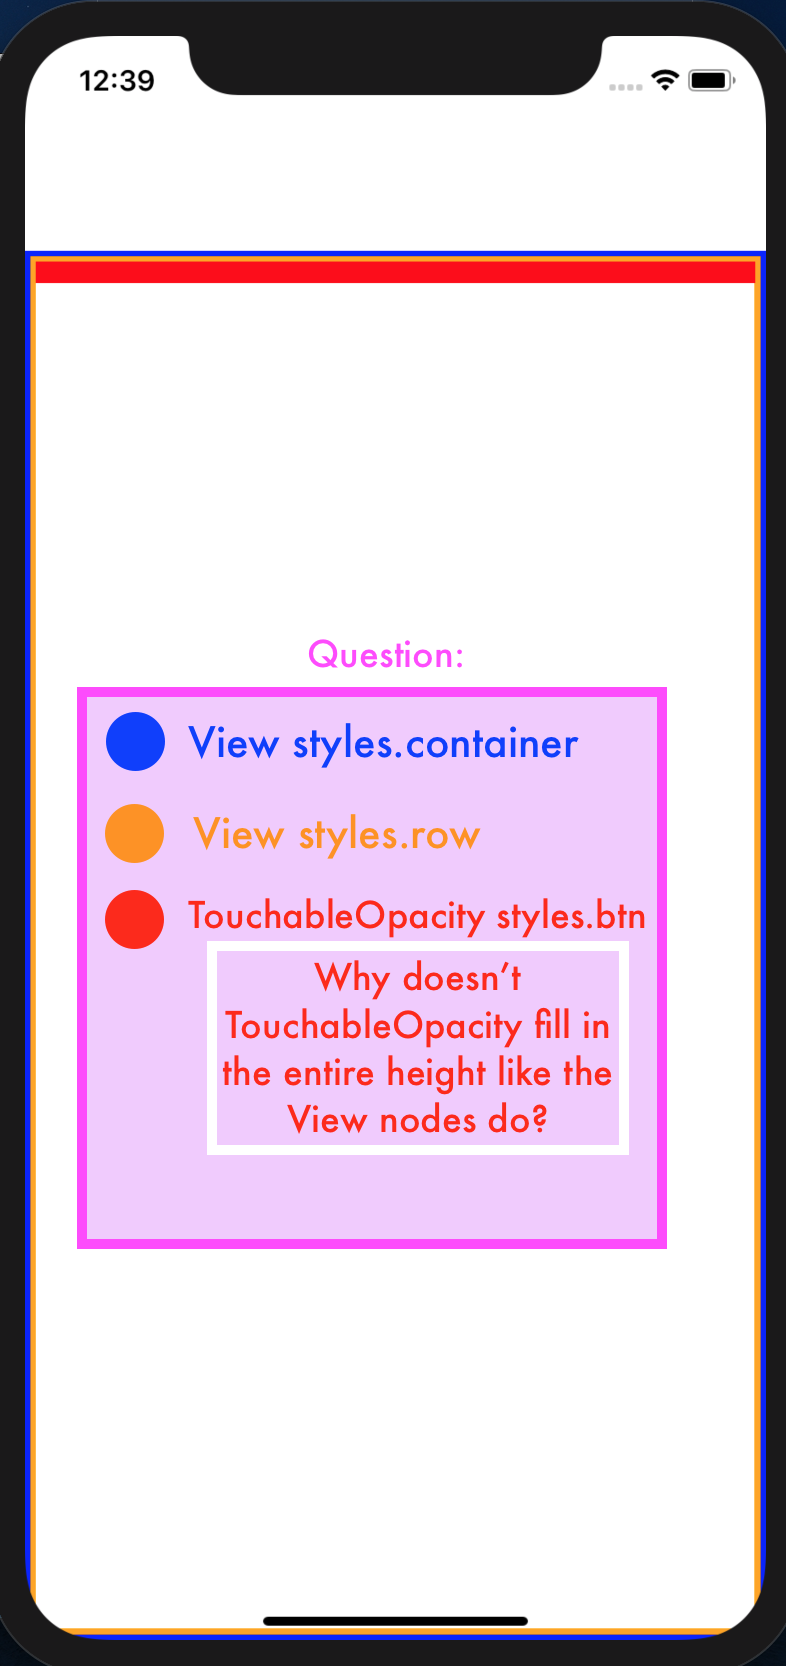
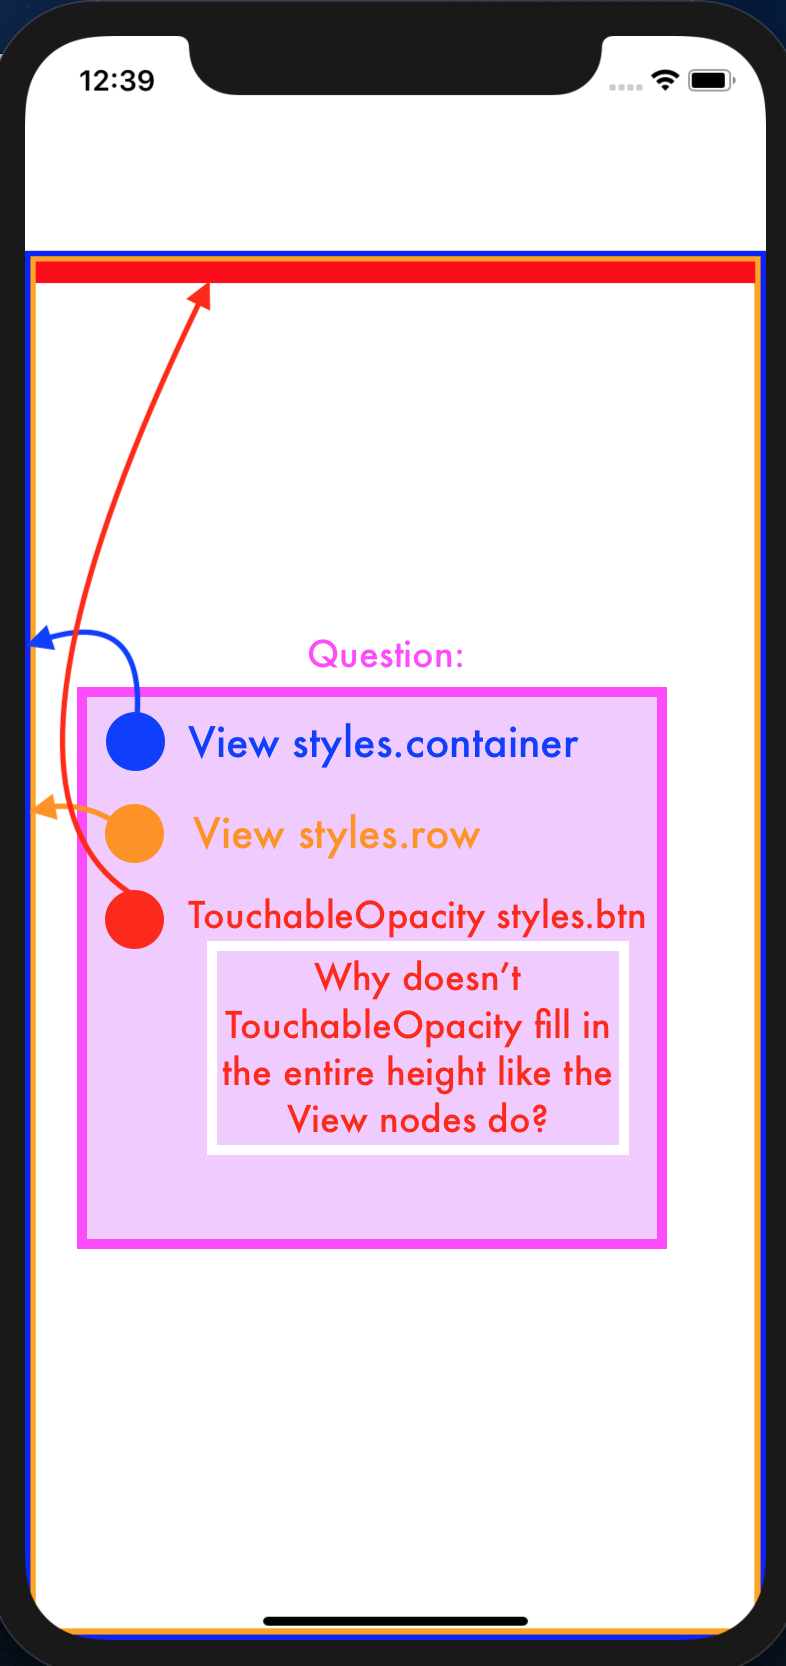
12-27-19

diff --git a/r3-log.md b/r3-log.md
@@ -1,5 +1,105 @@
 # #100DaysOfCode Log - Round 3 - Dashiell Bark-Huss
 
+## Day 160, R3
+### 12/27/19
+
+- ## React Native
+  Why does this `View` node have full height?
+
+  <img width=200 src="log_imgs/view_12-27-19.PNG">
+
+  But this `TouchableOpacity` node has no height?
+
+  <img width=200 src="log_imgs/touchO_12-27-19.PNG">
+
+  They have the ***same style***, but one is a `View` node and one is a `TouchableOpacity` node. 
+
+  How can I get the `TouchableOpacity` node to have full height?
+
+  ## Solution: No Flex
+  Changing `flex:1` to `height:100%` fixed it. From the docs, it looks like `TouchOpacity` doesn't work with flex. 
+  
+  But using `height:100%` is gave weird results when `TouchOpacity` had a sibling.
+
+  Here, `TouchOpacity`(red) is `height:100%`. There are two TouchOpacity nodes that are siblings. This behaves as expected. 
+  
+  <img width=200 src="log_imgs/sib_12-27-19.PNG">
+
+  So I changed the percentage to `50%` to get the desired layout. But it didn't work as expected:
+
+  <img width=200 src="log_imgs/50_12-27-19.PNG">
+
+  ## Solution: View Wrapper
+
+  Wrapping the `TouchOpacity` in a `View` node worked.
+
+  Now I can make buttons that take up the space I want:
+
+  <img width=200 src="log_imgs/btn_12-27-19.PNG">
+
+  ```javascript
+  import React, { Component } from 'react';
+  import { StyleSheet,View, Button, Text } from 'react-native';
+  import { TouchableOpacity } from 'react-native-gesture-handler';
+
+  export default class App extends Component {
+    constructor(){
+      super()
+      this.state={}
+    }
+    render() {
+      return (
+
+          <View style={styles.container}>
+
+              <View style={styles.btnWrapper}>
+                  <TouchableOpacity style={styles.btn}>
+                      <Text>0</Text>
+                  </TouchableOpacity>
+              </View>
+
+              <View style={styles.btnWrapper}>
+                  <TouchableOpacity style={styles.btn}>
+                      <Text>0</Text>
+                  </TouchableOpacity>
+              </View>
+
+              <View style={styles.btnWrapper}>
+                  <TouchableOpacity style={styles.btn}>
+                      <Text>0</Text>
+                  </TouchableOpacity>
+              </View>
+         
+            </View>
+
+        );
+    }
+  }
+
+  const styles = StyleSheet.create({
+    container: {
+      borderColor: 'blue',
+      borderWidth: 3,
+      margin:30,
+      marginTop:120,
+      flexDirection: 'row',
+      
+      flex: 1,
+    },
+    btnWrapper: {
+      borderColor: 'lightgreen',
+      borderWidth: 3,
+      flex: 1
+    },
+    btn: {
+      borderColor: 'hotpink',
+      borderWidth: 3,
+      height:'100%'
+    }
+
+  });
+  ```
+
 ## Day 159, R3
 ### 12/26/19
 
@@ -38,7 +138,7 @@
                 <TouchableOpacity style={styles.btn}>
                   <Text>0</Text>
                 </TouchableOpacity>
-                
+
               </View>
           </View>
       );
